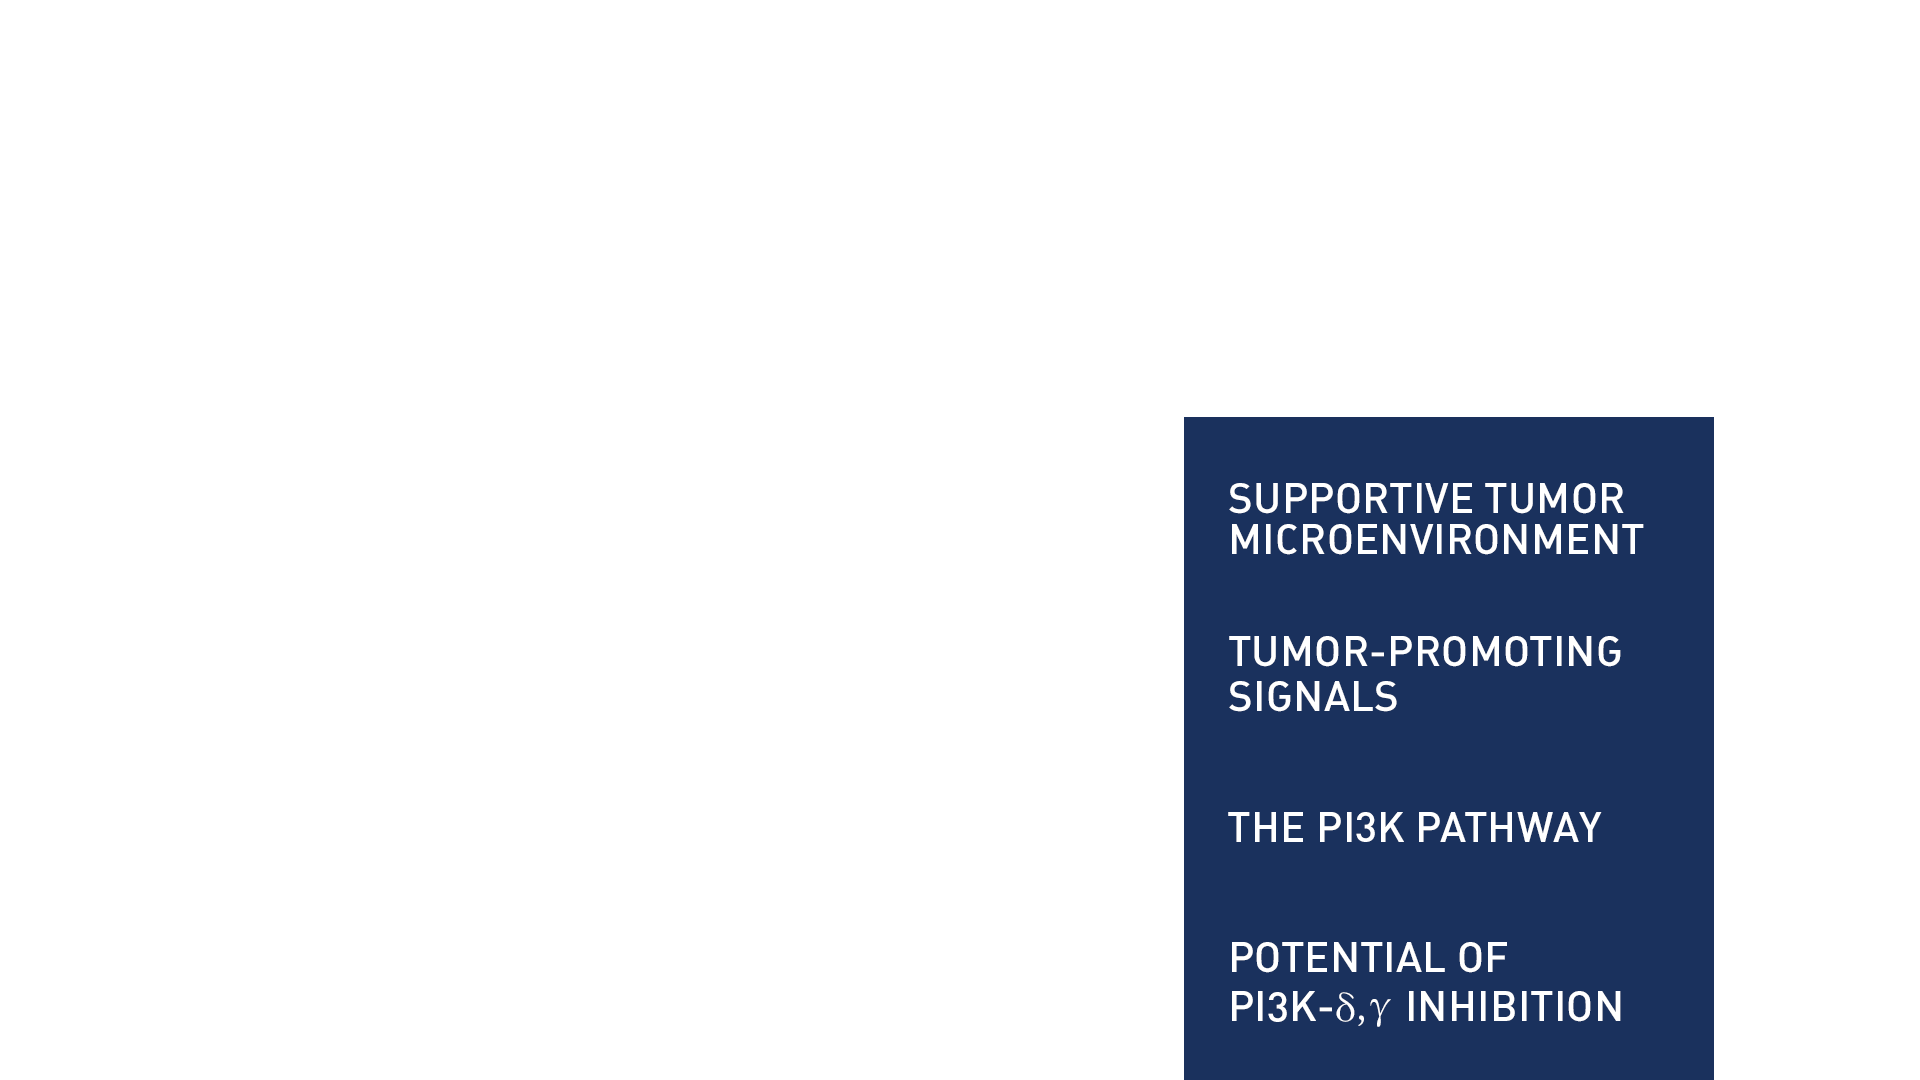
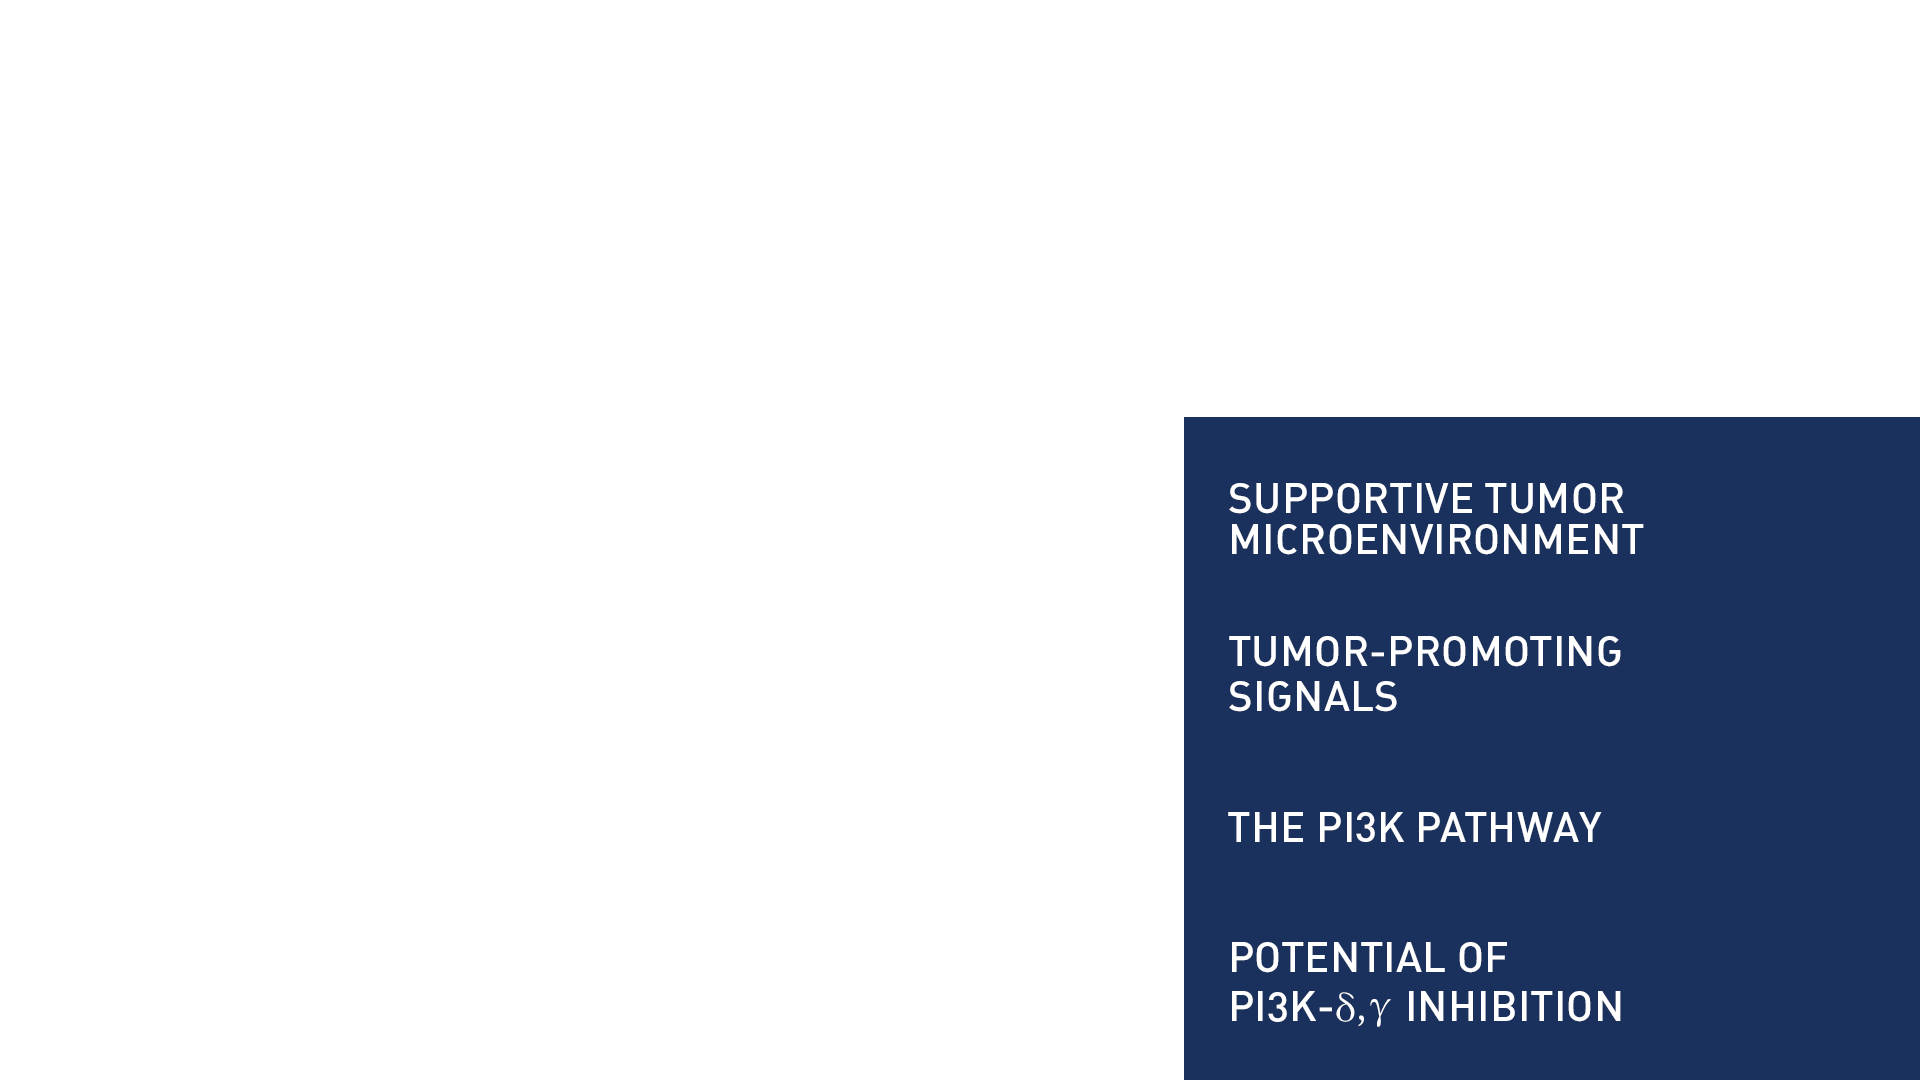
repaired z-index, subnav, webkit z-transition. no more FIXED position. no more Z-INDEX desingation on transitioning elements. bad bad.

Changed region(s): [[0.875, 0.3667, 1.0, 1.0]]

diff --git a/app/styles/main.scss b/app/styles/main.scss
@@ -19,69 +19,79 @@ body {
 }
 
 .full-width-container {
-  position: fixed;
+  position: absolute;
   left: 0;
   bottom: 0;
   min-width: 100%;
   min-height: 100%;
   width: 1920px;
   height: 1080px;
-  z-index: -10;
+  //z-index: -10;
   margin: auto;
   overflow: hidden;
 }
 
 .full-width-container-top {
-  position: fixed;
+  position: absolute;
   left: 0;
   bottom: 0;
   min-width: 100%;
   min-height: 100%;
   width: auto;
   height: auto;
-  z-index: 10;
+  //z-index: 10;
   margin: auto;
   overflow: hidden;
 }
 
 .subnav {
   overflow: hidden;
-  position: absolute;
-  right: 0px;
+  //position: absolute;
   bottom: 0px;
-  z-index: 20;
+  right: 0px;
   padding: 0;
   margin: 0;
 }
 .subnav-img {
-  position: fixed;
-  display: inline-block;
-  bottom: -4px;
-  right: 0;
-  z-index: 21;
+  position: absolute;
+  //display: inline-block;
+  bottom: 0px;
+  right: 0px;
+  //z-index: 21;
 }
 .subnav-text {
-  position: fixed;
-  top: 0px;
-  right: -1px;
+  position: absolute;
+  bottom: 0px;
+  //right: -1930px;
+  opacity: 0;
   transition: transform .3s ease;
-  z-index: 20;
+  //z-index: 20;
 }
 .shownav{
+  //transition: 0.3s ease;
+  //right: 0px;
+  opacity: 1;
+  visibility: visible;
   transition: 0.3s ease;
-  right: 0px;
 }
 .hidenav {
+  //transition: 0.3s ease;
+  //right: -300px;
+  opacity: 0;
+  visibility: hidden;
   transition: 0.3s ease;
-  right: -300px;
 }
 .opennav{
+  opacity: 1;
+  visibility: visible;
   transition: 0.3s ease;
-  right: -1px;
+  //right: 0px;
 }
 .closenav {
+  opacity: 0;
+  visibility: hidden;
   transition: 0.3s ease;
-  right: -1930px;
+  //right: -1930px;
 }
 
 .attractVideo {
@@ -99,22 +109,22 @@ body {
   min-height: 100%;
   width: auto;
   height: auto;
-  z-index: -10;
+  //z-index: -10;
   margin: auto;
   overflow: hidden;
 }
 
-.invisible-screen {
-  position: fixed;
-  background-color: rgba(0,0,100,0.25);
-  width: 1920px;
-  height: 1080px;
-  left: 0;
-  top: 0;
-  z-index: 20;
-  margin: 0;
-  padding: 0;
-}
+//.invisible-screen {
+//  position: fixed;
+//  background-color: rgba(0,0,100,0.25);
+//  width: 1920px;
+//  height: 1080px;
+//  left: 0;
+//  top: 0;
+//  z-index: 20;
+//  margin: 0;
+//  padding: 0;
+//}
 
 .attractVideo .caption {
   position: relative;
@@ -132,9 +142,9 @@ body {
   color: #fff;
 }
 
-.bigblueball{
-  z-index: 10;
-}
+//.bigblueball{
+//  z-index: 10;
+//}
 canvas {
   position: fixed;
   left: 0;
@@ -146,7 +156,7 @@ canvas {
 .btn-menu {
   width: 450px;
   height: 450px;
-  z-index: 30;
+  //z-index: 30;
 }
 
 .btn-main-menu {
@@ -159,7 +169,7 @@ canvas {
   top: 0;
   width: 1920px;
   height: 1080px;
-  z-index: 30;
+  //z-index: 30;
   overflow: hidden;
 }
 //
@@ -168,7 +178,7 @@ canvas {
   width: 1400px;
   margin: auto;
   margin-top: 100px;
-  z-index: 30;
+  //z-index: 30;
   overflow: hidden;
 }
 
@@ -214,7 +224,7 @@ canvas {
 .quiz .shield {
   width: 275px;
   height: auto;
-  z-index: 30;
+  //z-index: 30;
   margin: 40px 40px 20px;
 }
 .q1b {
@@ -299,13 +309,13 @@ canvas {
 
 
 .btn-fullvideo{
-  position:fixed;
+  position: absolute;
   top: 0px;
   right: -50px;
 }
 
 .img-selectall {
-  position:fixed;
+  position: absolute;
   top: 675px;
   left: 345px;
 }
@@ -314,7 +324,7 @@ canvas {
 
 .slider-container {
   //overflow:hidden;
-  position:fixed;
+  position:absolute;
   /* the container's height will determine the height of its slider  */
   height:1080px;
 }
@@ -378,7 +388,7 @@ canvas {
   margin: 0px;
 }
 .img-msg {
-  position:fixed;
+  position: absolute;
   top: 550px;
   left: 930px;
 }

diff --git a/app/partials/subnav.html b/app/partials/subnav.html
@@ -1,12 +1,15 @@
-<div class="subnav">
+<!--<div class="full-width-container">-->
+    <div class="subnav">
 
-    <span class="subnav-text" ng-class="subnavstate">
-        <img src="images/subNavFly.png">
-    </span>
+        <span class="subnav-text" ng-class="subnavstate">
+            <img src="images/subNavFly.png">
+        </span>
 
-    <span class="subnav-img" ng-click="flipSubNav()">
-        <img src="images/subNav.png">
-    </span>
+        <span class="subnav-img" ng-click="flipSubNav()">
+            <img src="images/subNav.png">
+        </span>
 
-</div>
+    </div>
+<!--</div>-->
+
 
